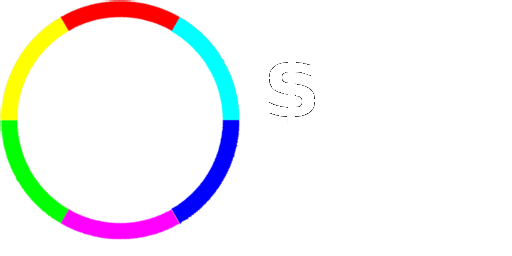
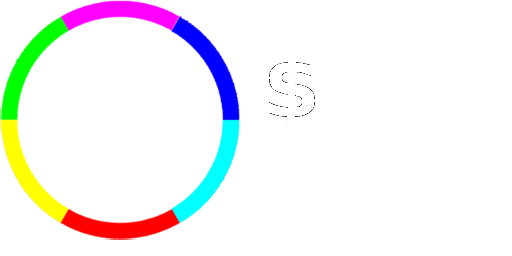
added spawner field: global velocity

Changed region(s): [[0.0, 0.0, 0.4688, 0.9375]]

diff --git a/core/src/com/colorflow/play/entity/Entity.kt b/core/src/com/colorflow/play/entity/Entity.kt
@@ -1,9 +1,9 @@
 package com.colorflow.play.entity
 
 import com.badlogic.gdx.Gdx
-import com.badlogic.gdx.graphics.Texture
 import com.badlogic.gdx.graphics.g2d.Batch
 import com.badlogic.gdx.graphics.g2d.ParticleEffect
+import com.badlogic.gdx.graphics.g2d.TextureRegion
 import com.badlogic.gdx.math.Circle
 import com.badlogic.gdx.scenes.scene2d.Actor
 import com.badlogic.gdx.scenes.scene2d.actions.Actions
@@ -18,33 +18,29 @@ abstract class Entity protected constructor(
     : Actor(), Pool.Poolable, Disposable {
 
     var path: Path
-    var bounds: Circle
-        protected set
+    var bounds: Circle; protected set
     protected var trail: ParticleEffect
-    protected lateinit var texture: Texture
-    val position: Position.Radial
-        get() = path.pos
+    protected lateinit var texture: TextureRegion
+    val position: Position.Radial; get() = path.pos
 
     init {
-        this.bounds = Circle(0f, 0f, 1f)
-        this.path = Path(Path.Type.RADIAL, Position.Radial(1f, 1f), 1.5f)
-        this.trail = ParticleEffect()
+        bounds = Circle(0f, 0f, 1f)
+        path = Path(Path.Type.RADIAL_STATIC, Position.Radial(1f, 1f), 1.5f)
+        trail = ParticleEffect()
         trail.load(Gdx.files.internal("sprites/trail.p"), Gdx.files.internal("sprites"))
     }
 
     fun set() {
-        setBounds(path.pos.x - texture.width / 2,
-                path.pos.y - texture.height / 2,
-                texture.width.toFloat(), texture.height.toFloat())
+        setBounds(path.pos.x - texture.regionWidth / 2,
+                path.pos.y - texture.regionHeight / 2,
+                texture.regionWidth.toFloat(), texture.regionHeight.toFloat())
         bounds.setPosition(path.pos.x, path.pos.y)
         trail.reset()
     }
 
     override fun draw(batch: Batch?, parentAlpha: Float) {
         trail.draw(batch)
-        batch!!.draw(texture, x, y,
-                width / 2, height / 2,
-                width, height, 1f, 1f, rotation, 0, 0, width.toInt(), height.toInt(), false, true)
+        batch!!.draw(texture, x, y, width / 2, height / 2, width, height, 1f, 1f, rotation)
     }
 
     override fun act(delta: Float) {
@@ -52,8 +48,8 @@ abstract class Entity protected constructor(
         path.nextPos(delta)
         bounds.setPosition(path.pos.x, path.pos.y)
         addAction(Actions.moveTo(
-                path.pos.x - texture.width / 2,
-                path.pos.y - texture.height / 2))
+                path.pos.x - texture.regionWidth / 2,
+                path.pos.y - texture.regionHeight / 2))
         /* Trail */
         trail.setPosition(position.x, position.y)
         val angle = position.angleRadial

diff --git a/core/src/com/colorflow/stage/PlayStage.kt b/core/src/com/colorflow/stage/PlayStage.kt
@@ -37,8 +37,9 @@ class PlayStage(viewport: Viewport,
     private val _shockwave_layer = ShockWave()
     private val _spawner: EntitySpawner = EntitySpawner(_dot_pool, _bonus_pool)
     private val _background: BackgroundManager = BackgroundManager()
-    private var _delta_alpha = 1.0f
     private lateinit var _ring: Ring
+
+    private var _delta_alpha = 1.0f
 
     fun reset() {
         _shockwave_layer.children.filter { it is Entity }.forEach { (it as Entity).destroy {  } }
@@ -79,11 +80,11 @@ class PlayStage(viewport: Viewport,
     }
 
     suspend fun on_beat(confidence: Float) {
-        Gdx.app.postRunnable { _shockwave_layer.children.filter { it is Dot }.forEach { (it as Dot).path.velocity *= 3} }
+         _spawner.dyn_velocity *= 3f
         _ring.setScale(1.1f)
         delay(100)
         _ring.setScale(1f)
-        Gdx.app.postRunnable { _shockwave_layer.children.filter { it is Dot }.forEach { (it as Dot).path.velocity /= 3} }
+        _spawner.dyn_velocity /= 3f
     }
 
     private fun _handle_collisions() {
@@ -120,11 +121,11 @@ class PlayStage(viewport: Viewport,
                         _score.incPoints(10)
                     } else {
                         Gdx.input.vibrate(200)
-                        _play_screen.state = PlayScreen.State.OVER
+                        //_play_screen.state = PlayScreen.State.OVER
                     }
                     Dot.Type.REVERSE -> if (_ring.getColorFor(p.angleRadial) == dot.colour) {
                         Gdx.input.vibrate(200)
-                        _play_screen.state = PlayScreen.State.OVER
+                       // _play_screen.state = PlayScreen.State.OVER
                     } else {
                         _score.incPoints(10)
                     }
@@ -133,7 +134,7 @@ class PlayStage(viewport: Viewport,
                         _score.incPoints(10)
                     } else {
                         Gdx.input.vibrate(200)
-                        _play_screen.state = PlayScreen.State.OVER
+                        //_play_screen.state = PlayScreen.State.OVER
                     }
                 }
             }

diff --git a/core/src/com/colorflow/play/ring/Ring.kt b/core/src/com/colorflow/play/ring/Ring.kt
@@ -1,9 +1,8 @@
 package com.colorflow.play.ring
 
-import com.badlogic.gdx.Gdx
 import com.badlogic.gdx.InputProcessor
-import com.badlogic.gdx.graphics.Texture
 import com.badlogic.gdx.graphics.g2d.Batch
+import com.badlogic.gdx.graphics.g2d.TextureRegion
 import com.badlogic.gdx.math.Circle
 import com.badlogic.gdx.scenes.scene2d.Actor
 import com.colorflow.utils.AssetProvider
@@ -12,25 +11,23 @@ import com.colorflow.utils.Position
 
 class Ring(asset_provider: AssetProvider, ring_id: String) : Actor() {
 
-    private var texture: Texture? = null
+    private var texture: TextureRegion
     val circle: Circle
     private var radius: Float = 0f
     private var rotation = 0f
     private val listener: RingListener
 
     init {
-        Gdx.app.error("======================",""+asset_provider.get_skin("play_stage").atlas.findRegion("ring").texture.width)
-        this.texture = asset_provider.get_skin("play_stage").atlas.findRegion(ring_id).texture
-        this.radius = texture!!.width / 2f
-        setBounds(Position.widthScreen / 2 - texture!!.width / 2, Position.heightScreen / 2 - texture!!.height / 2,
-                texture!!.width.toFloat(), texture!!.height.toFloat())
+        this.texture = asset_provider.get_skin("play_stage").getRegion(ring_id)
+        this.radius = texture.regionWidth / 2f
+        setBounds(Position.widthScreen / 2 - texture.regionWidth / 2, Position.heightScreen / 2 - texture.regionHeight / 2,
+                texture.regionWidth.toFloat(), texture.regionHeight.toFloat())
         this.circle = Circle(Position.center.x, Position.center.y, radius)
         this.listener = SideTapListener()
     }
 
     override fun draw(batch: Batch?, alpha: Float) {
-        batch!!.draw(texture, x, y, width / 2, height / 2, width, height,
-                scaleX, scaleY, getRotation(), 0, 0, width.toInt(), height.toInt(), false, true)
+        batch!!.draw(texture, x, y, width / 2, height / 2, width, height, scaleX, scaleY, getRotation())
     }
 
     override fun act(delta: Float) {

diff --git a/core/src/com/colorflow/play/EntitySpawner.kt b/core/src/com/colorflow/play/EntitySpawner.kt
@@ -13,9 +13,10 @@ import kotlin.collections.ArrayList
 class EntitySpawner(private val _dot_pool: DotPool,
         private val _bonus_pool: BonusPool) {
 
+    var dyn_velocity = 1.5f
     var dot_speed: Float = 1.5f
     var bonus_speed: Float = 1f
-    var dot_path: Path.Type = Path.Type.RADIAL
+    var dot_path: Path.Type = Path.Type.RADIAL_DYNAMIC
     var bonus_chance: Float = 0.1f
     var delta_time_spawn: Float = 2f
 
@@ -23,9 +24,10 @@ class EntitySpawner(private val _dot_pool: DotPool,
 
     fun reset() {
         dot_speed = 1.5f
+        dyn_velocity = 1.5f
         bonus_speed = 1f
         bonus_chance = 0.1f
-        dot_path = Path.Type.RADIAL
+        dot_path = Path.Type.RADIAL_DYNAMIC
         delta_time_spawn = 2f
         _timer = 0f
     }
@@ -39,10 +41,11 @@ class EntitySpawner(private val _dot_pool: DotPool,
         val list = ArrayList<Entity>()
         if(_timer > delta_time_spawn) {
             _timer = 0f
-            list.addAll(_wave_dot_mix(1 + (Math.random() * 6.0).toInt()))
+            list.addAll(_wave_dot_mix(6))
             if (Math.random() < bonus_chance)
                 list.add(_bonus())
         }
+        list.forEach { it.path.get_dyn_velocity = {dyn_velocity} }
         return list
     }
 
@@ -74,7 +77,7 @@ class EntitySpawner(private val _dot_pool: DotPool,
     }
 
     private fun _bonus(): Bonus {
-        return _bonus_pool.get(Bonus.Type.BOMB, Path.Type.RADIAL,
+        return _bonus_pool.get(Bonus.Type.BOMB, Path.Type.RADIAL_STATIC,
                 Position.Radial(Math.random().toFloat() * 360f, SPAWN_DIST), bonus_speed)
     }
 

diff --git a/core/src/com/colorflow/play/entity/Path.kt b/core/src/com/colorflow/play/entity/Path.kt
@@ -2,18 +2,22 @@ package com.colorflow.play.entity
 
 import com.colorflow.utils.Position
 
-class Path(var type: Type, var pos: Position.Radial, var velocity: Float) {
+class Path(var type: Type,
+           var pos: Position.Radial,
+           var static_velocity: Float) {
+    var get_dyn_velocity: ()->Float = {0f}
 
     enum class Type {
-        RADIAL, SPIRAL
+        RADIAL_STATIC, RADIAL_DYNAMIC, SPIRAL
     }
 
     fun nextPos(dt: Float): Position {
         when (type) {
-            Path.Type.RADIAL -> pos.set_dist(pos.distRadial - velocity)
-            Path.Type.SPIRAL -> {
-                pos.set_angle(pos.angleRadial - velocity / 2)
-                pos.set_dist(pos.distRadial - velocity)
+            Type.RADIAL_STATIC -> pos.set_dist(pos.distRadial - static_velocity)
+            Type.RADIAL_DYNAMIC -> pos.set_dist(pos.distRadial - get_dyn_velocity())
+            Type.SPIRAL -> {
+                pos.set_angle(pos.angleRadial - static_velocity / 2)
+                pos.set_dist(pos.distRadial - static_velocity)
             }
         }
         return pos

diff --git a/core/src/com/colorflow/play/entity/dot/Dot.kt b/core/src/com/colorflow/play/entity/dot/Dot.kt
@@ -18,15 +18,15 @@ class Dot(assets: AssetProvider, pool: Pool<Dot>) : Entity(assets, pool as Pool<
         this.type = type
         this.colour = color
         when (type) {
-            Type.STD -> this.texture = _assets.get_skin("play_stage").atlas.findRegion("dot_std").texture
-            Type.REVERSE -> this.texture = _assets.get_skin("play_stage").atlas.findRegion("dot_reverse").texture
-            Type.COIN -> this.texture = _assets.get_skin("play_stage").atlas.findRegion("dot_coin").texture
+            Type.STD -> this.texture = _assets.get_skin("play_stage").atlas.findRegion("dot_std")
+            Type.REVERSE -> this.texture = _assets.get_skin("play_stage").atlas.findRegion("dot_reverse")
+            Type.COIN -> this.texture = _assets.get_skin("play_stage").atlas.findRegion("dot_coin")
         }
         this.initTrail(color)
         path.type = pathType
         path.pos.x = start.x
         path.pos.y = start.y
-        path.velocity = velocity
+        path.static_velocity = velocity
         this.bounds.setRadius(40f)
         super.set()
     }

diff --git a/core/src/com/colorflow/play/entity/bonus/Bonus.kt b/core/src/com/colorflow/play/entity/bonus/Bonus.kt
@@ -17,12 +17,12 @@ class Bonus(assets: AssetProvider, pool: Pool<Bonus>) : Entity(assets, pool as P
         colors[1] = 1f
         colors[2] = 1f
         when (type) {
-            Bonus.Type.BOMB -> this.texture = _assets.get_skin("play_stage").atlas.findRegion("bonus_bomb").texture
+            Type.BOMB -> this.texture = _assets.get_skin("play_stage").atlas.findRegion("bonus_bomb")
             else -> throw IllegalStateException()
         }
         path.type = pathType
         path.pos = start
-        path.velocity = velocity
+        path.static_velocity = velocity
         this.bounds.setRadius(40f)
         super.set()
     }

diff --git a/todo.md b/todo.md
@@ -13,6 +13,7 @@
 - [ ] Improve beatdetector
 - [ ] Use structured concurrency with coroutines (extend CoroutineScope)
 - [ ] Db upgrade crash
+- [ ] Cache beat detection result
 - [ ] Add game over screen
 - [ ] Remove business logic from setter
 - [ ] Profile and optimize particle & shader render
